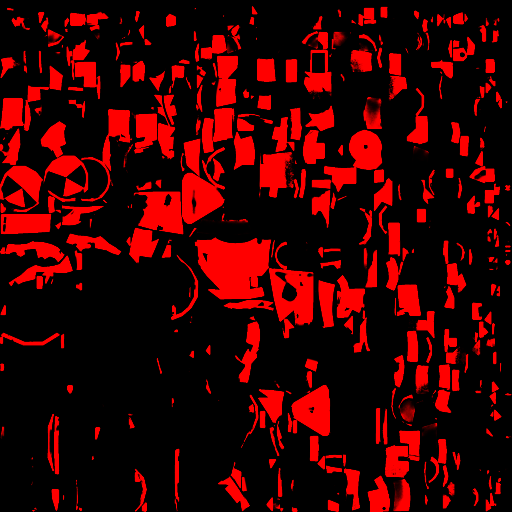
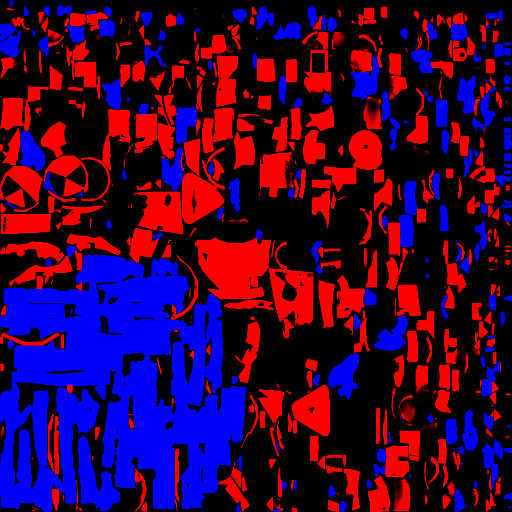
给霓绿少女补上缺少的肤色通道

diff --git a/assets/scripts/app/PlayerCharacterConfig.ts b/assets/scripts/app/PlayerCharacterConfig.ts
@@ -130,7 +130,7 @@ export const PLAYER_CHARACTER_DEFINITIONS: readonly PlayerCharacterDefinition[] 
         kick: 50,
         description: '身着荧绿装备的银发少女，以轻快稳定的节奏逐浪前行。',
         skillName: '霓绿节奏', skillDescription: '均衡的身体控制让连续划水与转身衔接更加顺畅。',
-        supportsSkinTone: false,
+        supportsSkinTone: true,
     },
     {
         id: 'cartonSwimmer15', name: '破浪机甲', modelVariantId: 'cartonSwimmer15', unlocked: true,

diff --git a/scripts/render-cartoon-skin-validation.py b/scripts/render-cartoon-skin-validation.py
@@ -9,6 +9,8 @@ parser=argparse.ArgumentParser(description='验证原色、深肤色、五种装
 parser.add_argument('--workdir', type=Path, required=True)
 parser.add_argument('--stage', choices=('before','after'), default='after')
 parser.add_argument('--ids', nargs='+', type=int, default=[5,6,8,9,10,11,12])
+parser.add_argument('--skin-rgb', nargs=3, type=int, default=[118,76,58])
+parser.add_argument('--resolution', type=int, default=600)
 args=parser.parse_args(sys.argv[sys.argv.index('--')+1:])
 WORK=args.workdir.resolve()
 ROOT=Path(__file__).resolve().parents[1]
@@ -22,7 +24,7 @@ for i in ids:
     rig=next(o for o in bpy.context.scene.objects if o.type=='ARMATURE')
     scene=bpy.context.scene
     scene.render.engine='CYCLES';scene.cycles.samples=4;scene.cycles.use_denoising=False
-    scene.render.resolution_x=600;scene.render.resolution_y=660;scene.render.resolution_percentage=100
+    scene.render.resolution_x=args.resolution;scene.render.resolution_y=round(args.resolution*1.1);scene.render.resolution_percentage=100
     scene.render.image_settings.file_format='PNG'
     scene.world=bpy.data.worlds.new('验证背景');scene.world.use_nodes=True
     scene.world.node_tree.nodes['Background'].inputs[0].default_value=(0.055,0.065,0.082,1)
@@ -60,13 +62,13 @@ for i in ids:
     suit_scale=nodes.new('ShaderNodeVectorMath');suit_scale.operation='SCALE';links.new(gear_bright,suit_scale.inputs['Scale'])
     skin_scale=nodes.new('ShaderNodeVectorMath');skin_scale.operation='SCALE';links.new(bright,skin_scale.inputs['Scale'])
     def lin(rgb):return tuple(v/12.92 if v<=.04045 else ((v+.055)/1.055)**2.4 for v in [x/255 for x in rgb])
-    skin_scale.inputs[0].default_value=lin((91,61,45))
+    skin_scale.inputs[0].default_value=lin(args.skin_rgb)
     suit_mix=nodes.new('ShaderNodeMixRGB');skin_mix=nodes.new('ShaderNodeMixRGB')
     links.new(ramp.outputs[0],suit_mix.inputs[0]);links.new(tex.outputs[0],suit_mix.inputs[1]);links.new(suit_scale.outputs[0],suit_mix.inputs[2])
     links.new(separate.outputs['Blue'],skin_mix.inputs[0]);links.new(suit_mix.outputs[0],skin_mix.inputs[1]);links.new(skin_scale.outputs[0],skin_mix.inputs[2])
     mesh.data.materials[0]=material
     def render(tag,view):
-        camera.location={'front':(0,-3,.55),'back':(0,3,.55),'side':(3,0,.55),'threequarter':(2,-3,.8)}[view]
+        camera.location={'front':(0,-3,.55),'back':(0,3,.55),'side':(3,0,.55),'left':(-3,0,.55),'threequarter':(2,-3,.8)}[view]
         camera.rotation_euler=(Vector((0,0,.46))-camera.location).to_track_quat('-Z','Y').to_euler()
         scene.render.filepath=str(folder/f'{stage}_{tag}_{view}.png');bpy.ops.render.render(write_still=True)
     palettes=['deep'] if stage=='before' else ['deep','red','blue','yellow','purple','original']
@@ -74,7 +76,7 @@ for i in ids:
         tex.image=base_image
         suit_scale.inputs[0].default_value=lin({'deep':(24,199,216),'red':(240,20,20),'blue':(23,109,218),'yellow':(255,209,42),'purple':(139,77,255),'original':(255,255,255)}[palette])
         links.new(tex.outputs[0] if palette=='original' else skin_mix.outputs[0],emission.inputs[0])
-        for view in ('front','back','side') if palette=='deep' else ('front',): render(palette,view)
+        for view in ('front','back','side','left') if palette=='deep' else ('front',): render(palette,view)
     if stage!='before':
         tex.image=base_image;suit_scale.inputs[0].default_value=lin((24,199,216));links.new(skin_mix.outputs[0],emission.inputs[0])
         for action in ('breaststroke','waving'):

diff --git a/scripts/repair-cartoon-skin-masks.py b/scripts/repair-cartoon-skin-masks.py
@@ -12,8 +12,8 @@ def smooth(a, b, x):
     return t * t * (3 - 2 * t)
 
 
-def repair(work):
-    for i in (5,6,8,9,10,11,12):
+def repair(work, ids=(5,6,8,9,10,11,12)):
+    for i in ids:
         folder=work/f'CartonSwimmer{i}'
         base_path=folder/'base.png'
         if not base_path.exists():
@@ -53,7 +53,7 @@ def repair(work):
         support=support.astype(np.float32).repeat(4,0).repeat(4,1)
         r,g,b=base.transpose(2,0,1);sat=(base.max(2)-base.min(2))/np.maximum(base.max(2),1e-5)
         # 暖色皮肤的内部覆盖保持完整；灰白衣袜不因闭运算被染色。
-        low,high={5:(.12,.22),6:(.20,.28),8:(.16,.25),9:(.12,.22),10:(.10,.18),11:(.13,.23),12:(.08,.16)}[i]
+        low,high={5:(.12,.22),6:(.20,.28),8:(.16,.25),9:(.12,.22),10:(.10,.18),11:(.13,.23),12:(.08,.16),14:(.06,.13)}[i]
         strong=support>.65
         skin=smooth(np.where(strong,.035,low),np.where(strong,.09,high),r-b)*smooth(.008,.038,r-g)*smooth(.005,.035,g-b)
         skin*=smooth(.26,.48,r)
@@ -74,6 +74,12 @@ def repair(work):
             bare=((np.abs(position[...,0])>.34)&(position[...,2]>.64)&(position[...,2]<.77))|((position[...,2]>.205)&(position[...,2]<.31))
             highlight=smooth(.016,.042,r-b)*smooth(.003,.016,r-g)*smooth(-.008,.008,g-b)
             skin=np.maximum(skin,highlight*bare)
+        if i == 14:
+            # c1b6 银发角色：裸露面部、颈部、双臂及裤脚至袜口之间的腿部。
+            # 位置限制排除胸前金属扣等暖色配件，颜色分离保护灰白头发和袜子。
+            z=position[...,2]
+            bare=((z>.77)&(z<.96))|((np.abs(position[...,0])>.16)&(z>.64)&(z<.79))|((z>.16)&(z<.47))
+            skin*=bare
         # 头部的棕色头发与肤色接近，采用既有高置信度肤色区域作为保护。
         head=position[...,2]>.76
         if i in (6,8):
@@ -83,7 +89,8 @@ def repair(work):
         skin=np.asarray(Image.fromarray(skin.astype(np.float32)).resize((w,h),Image.Resampling.BOX))
         result=original.copy();result[...,2]=np.uint8(skin*255+.5)
         # 衣服的绿色误差不能在明确的暖色皮肤内部留下高对比碎点。
-        result[...,0][skin>.8]=0
+        if i != 14:
+            result[...,0][skin>.8]=0
         Image.fromarray(result).save(folder/'candidate.png',optimize=True)
         report = {
             'character': f'CartonSwimmer{i}',
@@ -104,4 +111,6 @@ def repair(work):
 if __name__ == '__main__':
     parser = argparse.ArgumentParser(description='生成卡通角色肤色修复候选，不写入运行时资产。')
     parser.add_argument('--workdir', type=Path, required=True, help='Blender 审计导出的原始快照目录')
-    repair(parser.parse_args().workdir.resolve())
+    parser.add_argument('--ids', nargs='+', type=int, choices=[5,6,8,9,10,11,12,14], default=[5,6,8,9,10,11,12])
+    args=parser.parse_args()
+    repair(args.workdir.resolve(), args.ids)

diff --git a/scripts/audit-cartoon-skin-masks.py b/scripts/audit-cartoon-skin-masks.py
@@ -13,11 +13,11 @@ import bpy
 import numpy as np
 
 
-def audit(work):
+def audit(work, ids=(5, 6, 8, 9, 10, 11, 12)):
     if not bpy.app.background:
         raise RuntimeError('此脚本只允许在独立后台 Blender 执行，以保护正在编辑的场景。')
     root = Path(__file__).resolve().parents[1]
-    for number in (5, 6, 8, 9, 10, 11, 12):
+    for number in ids:
         name = f'CartonSwimmer{number}'
         folder = work / name
         folder.mkdir(parents=True, exist_ok=True)
@@ -61,5 +61,7 @@ def audit(work):
 if __name__ == '__main__':
     parser = argparse.ArgumentParser(description='保存原始角色和肤色遮罩，不修改运行时资产。')
     parser.add_argument('--workdir', type=Path, required=True)
+    parser.add_argument('--ids', nargs='+', type=int, default=[5, 6, 8, 9, 10, 11, 12])
     arguments = sys.argv[sys.argv.index('--') + 1:] if '--' in sys.argv else []
-    audit(parser.parse_args(arguments).workdir.resolve())
+    args = parser.parse_args(arguments)
+    audit(args.workdir.resolve(), args.ids)

diff --git a/docs/character-import-carton-swimmer14.zh.md b/docs/character-import-carton-swimmer14.zh.md
@@ -1,5 +1,7 @@
 # 精修 v3 角色游戏接入
 
+> 2026-09-06 更新：已补充皮肤换色，`supportsSkinTone=true`。下文 2026-09-05 的固定肤色和旧遮罩哈希属于初次接入记录；当前变更及验证见文末「肤色功能补全」。
+
 > 目标更正：用户明确 bf613 精修版应替换「绿电潮童」12，而不是「霓绿少女」14。14 已恢复为本文记录的 c1b6 精修版，模型与遮罩哈希再次对应下文。正确的 bf613 接入见 [绿电潮童替换说明](character-replacement-carton-swimmer12-bf613.zh.md)。
 
 日期：2026-09-05。新增 `cartonSwimmer14`，暂用显示名「霓绿少女」。本角色来自 `c1b6e588`，不是 `ee5684b1` 的「深潜先锋」，不覆盖已有角色，也不修改玩家默认选择或已有存档的稳定 ID。
@@ -62,3 +64,16 @@
 ## 用户验收入口
 
 在角色列表或 Debug Model 选择「霓绿少女」。本次不自动改写当前选中角色。请在现有游戏会话中确认准备展示、跳水、自由泳／踩水、鞋底接地与换色近景；这些实际运行环节和压缩后的真机效果仍需验收。
+
+## 肤色功能补全（2026-09-06）
+
+用户要求霓绿少女与其他人形角色一样提供肤色选项。本次在既有 512×512 RGBA 遮罩的 B 通道加入面部、颈部、双臂、双手及裸露腿部覆盖，开启 `supportsSkinTone`；「黄」保留原肤色，「黑」复用现有深肤色参数。服装与肤色独立切换，预览仍走 `applyAppearance()` 更新材质，不重建模型或重启动作。
+
+- 模型、UV、骨骼、底图与两份 `.meta` 均与备份逐字节一致。遮罩 R／G／A 逐像素不变，只增加 B 通道；银发、白袜、紫色镜片与配件保留原设计。
+- 遮罩候选通过模型空间裸露区域与暖色底图交集生成，4 倍采样后按面积降采样。不扩张 UV 岛，不增加材质、贴图数量、渲染批次或逐帧工作。
[1 lines of base64/hex data omitted]
+- 复现顺序：`scripts/audit-cartoon-skin-masks.py`、`scripts/repair-cartoon-skin-masks.py`、`scripts/render-cartoon-skin-validation.py`，均传 `--workdir <独立工作目录> --ids 14`；审计与渲染通过 `scripts/run-blender.py -- --python <脚本>` 执行。候选生成不会直接覆盖运行资源。
+- 本机备份、几何审计、候选和原色／五组高对比装备色、正背左右、蛙泳／挥手姿势检查图位于 `temp/neon-skin-20260906/CartonSwimmer14/`。采用当前深肤色 RGB 118／76／58。极近景仍可见少量原碎片 UV 的细线，不将其描述为完全无缝；没有重新设计或改变原服装遮罩。
+- 验证通过：TypeScript 5.4.5 类型检查；16 项角色回归，包含反复切换肤色与服装、恢复原肤色；`textures:fix` 和 `textures:check`（188 项扫描／98 项纳入压缩）；模型、元数据及未修改通道一致性检查。
+- 联机仍从共享头像 ID 派生外观，当前头像映射不包含 14。本次不改房间协议或网络状态；本地肤色选项不会改变既有联机外观映射。
+- **尚未验证**：当前 Cocos `library` 中仍为旧遮罩，须由已有编辑器会话扫描／重新导入该 PNG 后刷新预览；本次未启动、重启或截图 Cocos，也未手写其导入缓存。微信 iOS／Android 压缩后效果及引擎内反复切换、预览动画连续性仍需实测。
